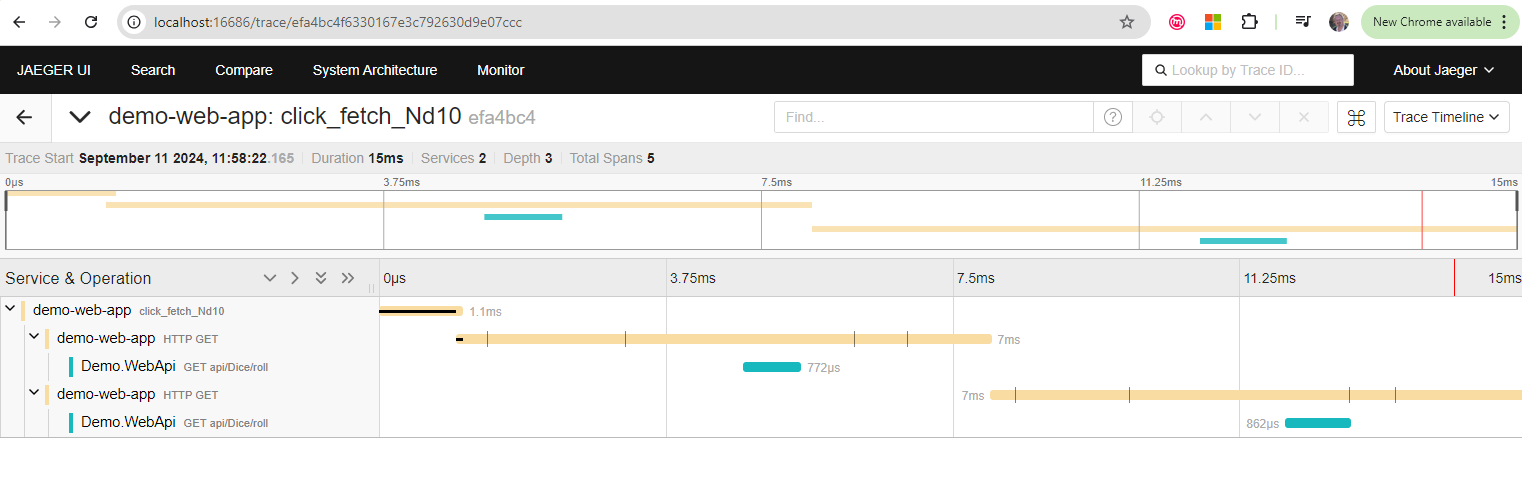
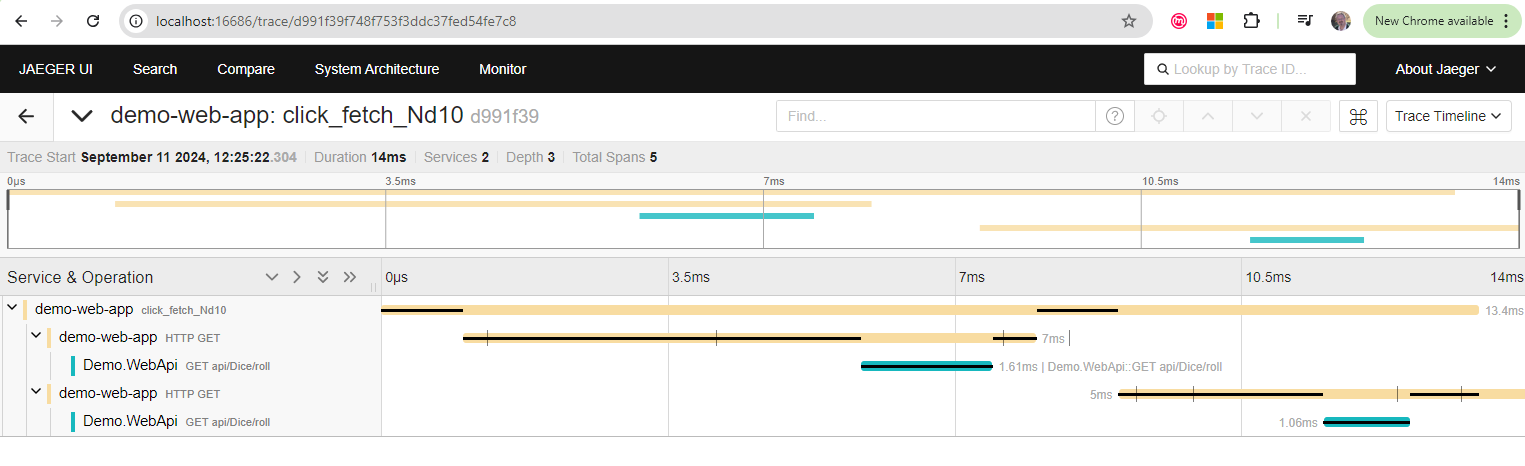
Fix client span end

diff --git a/src/example-2024/demo-web-app/app/page.tsx b/src/example-2024/demo-web-app/app/page.tsx
@@ -23,27 +23,26 @@ export default function Home() {
   const clickFetch3D6 = async () => {
     const url = process.env.NEXT_PUBLIC_API_URL + 'api/dice/roll?dice=3D6'
     console.log('clickFetch3D6', url, getActiveSpanContext()?.traceId)
-    traceSpan('click_fetch_3D6', async () => {
-      fetch(url)
+    traceSpan('click_fetch_3D6', async () => fetch(url)
         .then(response => response.json())
         .then(json => {
           console.log('clickFetch3D6 result', json, getActiveSpanContext()?.traceId)
           setFetch3D6Result(json)
         })
-    })
+    )
   }
 
   const clickFetchND10 = async () => {
     traceSpan('click_fetch_Nd10', async () => {
       const url = process.env.NEXT_PUBLIC_API_URL + 'api/dice/roll?dice=1D8'
       console.log('clickFetchND10 for N', url, getActiveSpanContext()?.traceId)
-      fetch(url)
+      return fetch(url)
         .then(response => response.json())
         .then(json => {
           console.log('clickFetchND10 N=', json, getActiveSpanContext()?.traceId)
           const url2 = process.env.NEXT_PUBLIC_API_URL + `api/dice/roll?dice=${json}D10`
           console.log('clickFetchND10 second query', url2, getActiveSpanContext()?.traceId)
-          fetch(url2)
+          return fetch(url2)
             .then(response => response.json())
             .then(json => {
               console.log('clickFetchND10 result', json, getActiveSpanContext()?.traceId)
@@ -56,13 +55,13 @@ export default function Home() {
   const clickFetchWithoutSpan = async () => {
     const url = process.env.NEXT_PUBLIC_API_URL + 'api/dice/roll?dice=1D8'
     console.log('clickFetchND10 for N', url, getActiveSpanContext()?.traceId)
-    fetch(url)
+    return fetch(url)
       .then(response => response.json())
       .then(json => {
         console.log('clickFetchND10 N=', json, getActiveSpanContext()?.traceId)
         const url2 = process.env.NEXT_PUBLIC_API_URL + `api/dice/roll?dice=${json}D10`
         console.log('clickFetchND10 second query', url2, getActiveSpanContext()?.traceId)
-        fetch(url2)
+        return fetch(url2)
           .then(response => response.json())
           .then(json => {
             console.log('clickFetchND10 result', json, getActiveSpanContext()?.traceId)

diff --git a/src/example-2024/ReadMe.md b/src/example-2024/ReadMe.md
@@ -235,11 +235,11 @@ const clickFetchND10 = async () => {
   traceSpan('click_fetch_Nd10', async () => {
     const url = process.env.NEXT_PUBLIC_API_URL + 'api/dice/roll?dice=1D8'
     console.log('clickFetchND10 for N', url, getActiveSpanContext()?.traceId)
-    fetch(url)
+    return fetch(url)
       .then(response => response.json())
       .then(json => {
         const url2 = process.env.NEXT_PUBLIC_API_URL + `api/dice/roll?dice=${json}D10`
-        fetch(url2)
+        return fetch(url2)
           .then(response => response.json())
           .then(json => {
             setFetchND10Result(json)    
